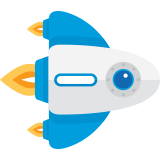
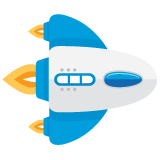
1.0

diff --git a/public/js/load.js b/public/js/load.js
@@ -7,7 +7,7 @@ var loadState = {
 		//game.load.image('space', 'assets/space-bg.jpg')
                 //game.load.spritesheet('dude', 'assets/ship3.png', 83, 74)
                 game.load.image('space', 'assets/tileable-space.jpg')
-                game.load.spritesheet('dude', 'assets/G2.png', 160, 160)
+                game.load.spritesheet('dude', 'assets/G1.png', 160, 160)
                 game.load.spritesheet('dude-alt', 'assets/B1.png', 160, 160)
                 game.load.image('laser', 'assets/laser.png');
                 game.load.image('laser-alt', 'assets/laser2.png');
